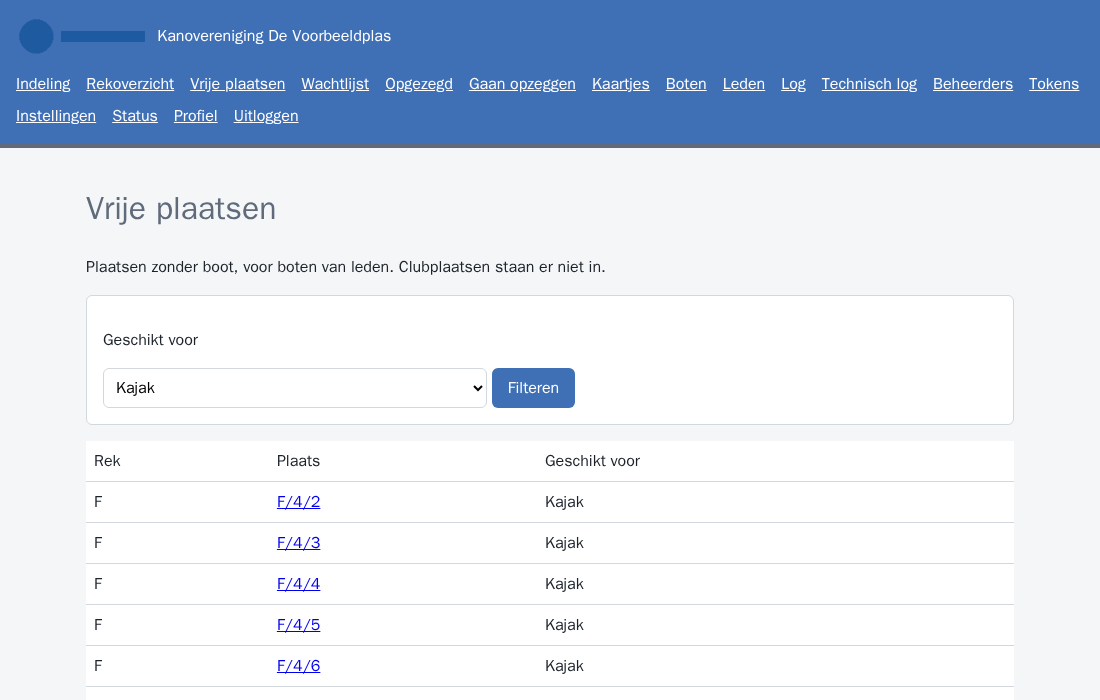
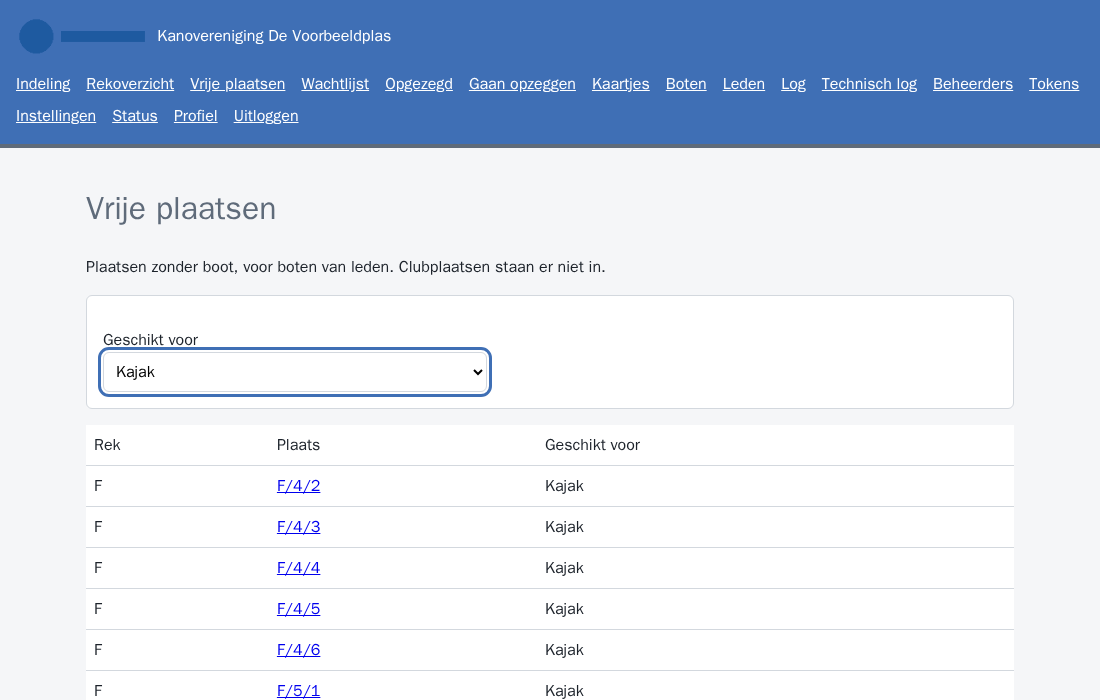
Vrije plaatsen: filter op bootsoort zonder knop (issue #99)
De keuzelijst verstuurt het formulier bij een keuze via app/web/static/vrij.js
(geen inline script, CSP ongewijzigd). De knop Filteren staat alleen nog in
<noscript>. Met een gekozen bootsoort krijgt de keuzelijst autofocus.
E2E-test, schermafbeeldingenscript en vrij.png bijgewerkt.

Review: Sentinel, akkoord

diff --git a/app/web/templates/vrij.html b/app/web/templates/vrij.html
@@ -7,13 +7,13 @@
 
 <form method="get" action="{{ url_for('web.vrije_plaatsen') }}" class="kaart">
   <label for="bootsoort">Geschikt voor</label>
-  <select id="bootsoort" name="bootsoort">
+  <select id="bootsoort" name="bootsoort"{% if gekozen %} autofocus{% endif %}>
     <option value="">Alle bootsoorten</option>
     {% for s in bootsoorten %}
     <option value="{{ s.id }}"{% if gekozen and s.id == gekozen.id %} selected{% endif %}>{{ s.naam }}</option>
     {% endfor %}
   </select>
-  <button type="submit" class="knop">Filteren</button>
+  <noscript><button type="submit" class="knop">Filteren</button></noscript>
 </form>
 
 {% if plaatsen %}
@@ -35,3 +35,4 @@
 
 {{ logtabel(regels) }}
 {% endblock %}
+{% block scripts %}<script src="{{ url_for('static', filename='vrij.js') }}"></script>{% endblock %}

diff --git a/app/web/static/vrij.js b/app/web/static/vrij.js
@@ -1,0 +1,2 @@
+// Het filter op /vrij werkt direct bij een keuze; zonder script staat de knop in <noscript>.
+document.getElementById("bootsoort").addEventListener("change", (e) => e.target.form.submit());

diff --git a/tests/e2e/test_overzichten.py b/tests/e2e/test_overzichten.py
@@ -18,13 +18,23 @@ def test_vrije_plaatsen_indeling_op_telefoon_en_export(page):
     ski = rek_met_plaats(page, reknaam("v"), ["Surfski"])
     club = rek_met_plaats(page, reknaam("w"), ["Surfski"], club=True)
 
+    kajak = rek_met_plaats(page, reknaam("x"), ["Kajak"])
+    meldingen = []
+    page.on("console", lambda m: meldingen.append(m.text) if m.type == "error" else None)
     page.goto("/vrij")
     page.get_by_label("Geschikt voor").select_option(label="Surfski")
-    page.get_by_role("button", name="Filteren").click()
+    page.wait_for_url(re.compile(r"/vrij\?bootsoort=\d+$"))
+    expect(page.get_by_label("Geschikt voor")).to_be_focused()
     expect(page.get_by_role("link", name=ski, exact=True)).to_be_visible()
     expect(page.get_by_role("link", name=club, exact=True)).to_have_count(0)
+    expect(page.get_by_role("link", name=kajak, exact=True)).to_have_count(0)
     for rij in page.locator("main > table tbody tr").all():
         expect(rij.locator("td").nth(2)).to_contain_text("Surfski")
+    page.get_by_label("Geschikt voor").select_option(label="Alle bootsoorten")
+    page.wait_for_url(re.compile(r"/vrij\?bootsoort=$"))
+    expect(page.get_by_role("link", name=kajak, exact=True)).to_be_visible()
+    expect(page.get_by_role("link", name=ski, exact=True)).to_be_visible()
+    assert not meldingen, meldingen
 
     page.set_viewport_size({"width": 360, "height": 740})
     page.goto("/indeling")

diff --git a/tests/unit/test_overzichten_en_instellingen.py b/tests/unit/test_overzichten_en_instellingen.py
@@ -2,6 +2,7 @@
 (BLB-027). Verschoven uit slice 2: BLB-011 criterium 2 en BLB-003 criterium 1."""
 
 import io
+import re
 import time
 from datetime import date, timedelta
 
@@ -53,6 +54,19 @@ def test_vrije_plaatsen_zonder_bezet_en_clubplaats(app):
     assert [p.code for p in indeling.vrije_plaatsen()] == [vrij.code, c11.code]
     assert [p.code for p in indeling.vrije_plaatsen(soort("Surfski"))] == ["A/1/1"]
     assert indeling.vrije_plaatsen(soort("Supboard")) == []
+
+
+def test_vrije_plaatsen_filter_zonder_knop_met_script_en_focus(ingelogd):  # noqa: F811
+    loods()
+    zonder = ingelogd.get("/vrij").text
+    zichtbaar = re.sub(r"<noscript>.*?</noscript>", "", zonder, flags=re.DOTALL)
+    assert "<noscript><button" in zonder, "zonder script blijft de knop beschikbaar"
+    assert "Filteren" not in zichtbaar, "knop Filteren buiten noscript"
+    assert '<script src="/static/vrij.js"></script>' in zichtbaar, "script van de eigen site"
+    assert "<script>" not in zichtbaar and "onchange" not in zichtbaar, "geen inline script"
+    assert "autofocus" not in zonder, "autofocus zonder gekozen bootsoort"
+    met = ingelogd.get(f"/vrij?bootsoort={soort('Surfski')}").text
+    assert re.search(r'<select id="bootsoort"[^>]* autofocus', met), "autofocus met gekozen bootsoort"
 
 
 def test_vrije_plaatsen_scherm_met_filter_en_vrijgeven(ingelogd):  # noqa: F811

diff --git a/documentatie/gebruikers/schermafbeeldingen.py b/documentatie/gebruikers/schermafbeeldingen.py
@@ -5,6 +5,7 @@ elke opname uit het scherm gehaald."""
 
 import json
 import os
+import re
 import struct
 import sys
 import time
@@ -196,7 +197,7 @@ def schermen(browser):
     # Overzichten.
     page.goto("/vrij")
     page.get_by_label("Geschikt voor").select_option(label="Kajak")
-    page.get_by_role("button", name="Filteren").click()
+    page.wait_for_url(re.compile(r"/vrij\?bootsoort=\d+$"))
     o.maak("vrij", hoogte=700)
     page.goto("/wachtlijst")
     o.maak("wachtlijst", hoogte=1000)
